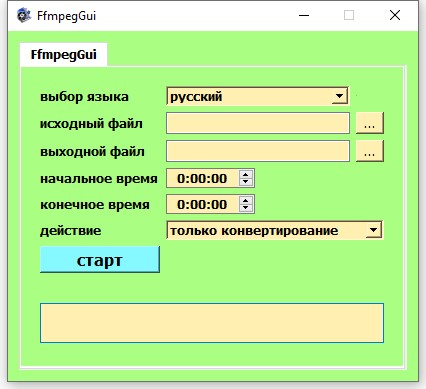
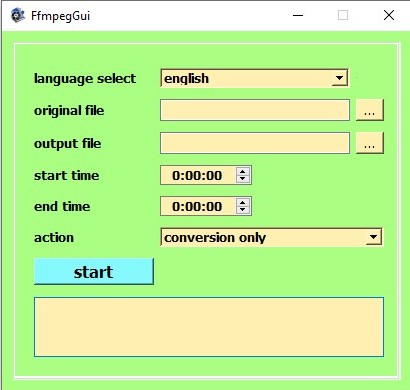
added script, fixed interface

diff --git a/main.py b/main.py
@@ -61,8 +61,6 @@ def command() -> None:
             f"-i {input_file} {output_file}"),
         3: f"ffmpeg -f concat -i concat.txt {output_file}"
     }
-    # os.system('mkdir OSSS')
-    # os.system('cmd --window -- cmd -c "ipconfig"')
     for index in action:
         if window.comboBox.currentIndex() == index:
             cmd = action[index]
@@ -93,7 +91,9 @@ def get_sys_info():
         url_link = ('https://github.com/BtbN/FFmpeg-Builds/releases/download/'
                     'latest/ffmpeg-master-latest-win64-gpl.zip')
         if not Path('ffmpeg.exe').exists():
-            return set_lang(addition=True)[2] + f"<a href='{url_link}'>ffmpeg</a>"
+            return (f"{set_lang(addition=True)[2]}<a href='{url_link}'>"
+                    f"ffmpeg-master-latest-win64-gpl.zip</a>, "
+                    f"(<a href='{url}'>ffmpeg</a>)")
 
 
 if __name__ == "__main__":
